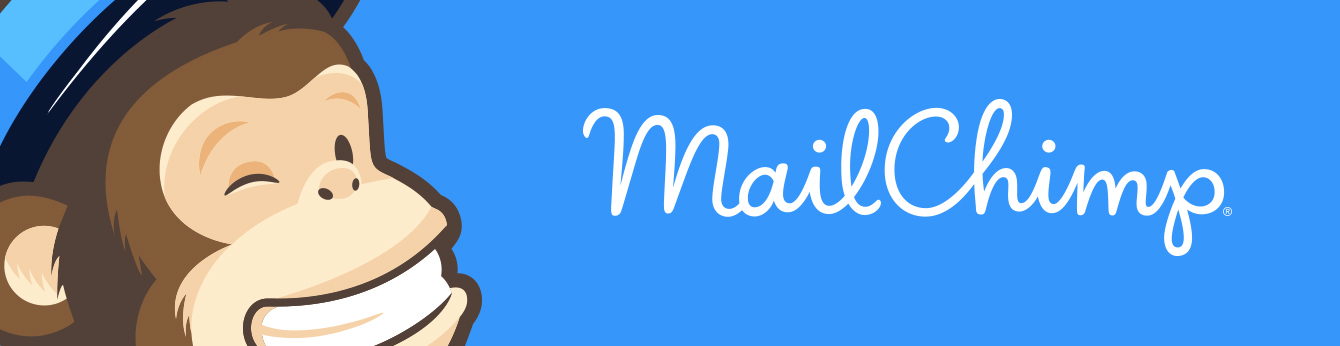
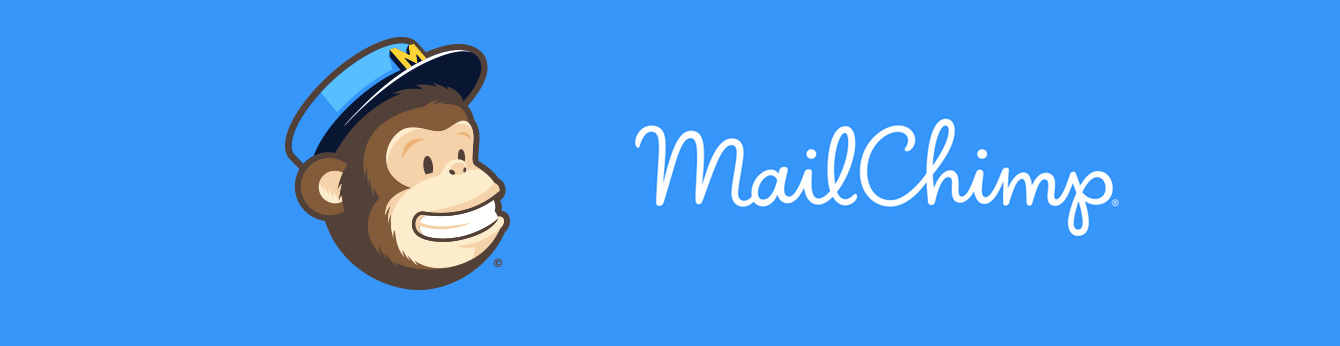
fixed mailchimp bg

diff --git a/public/css/main-redesign.css b/public/css/main-redesign.css
@@ -783,16 +783,13 @@ h3 {
 
 .banner {
   width: 100%;
-  background-color: #3082c1; 
+  background-image: url(/img/sponsors/mailchimp_banner_color.jpg)
 }
 .banner img {
   display: block;
   height: auto;
   margin-left: auto;
   margin-right: auto;
-  /*margin-left: 15%;
-  margin-right: 15%;
-  width: 70%;*/
 }
 @media (min-width: 1340px) {
   .banner img {
